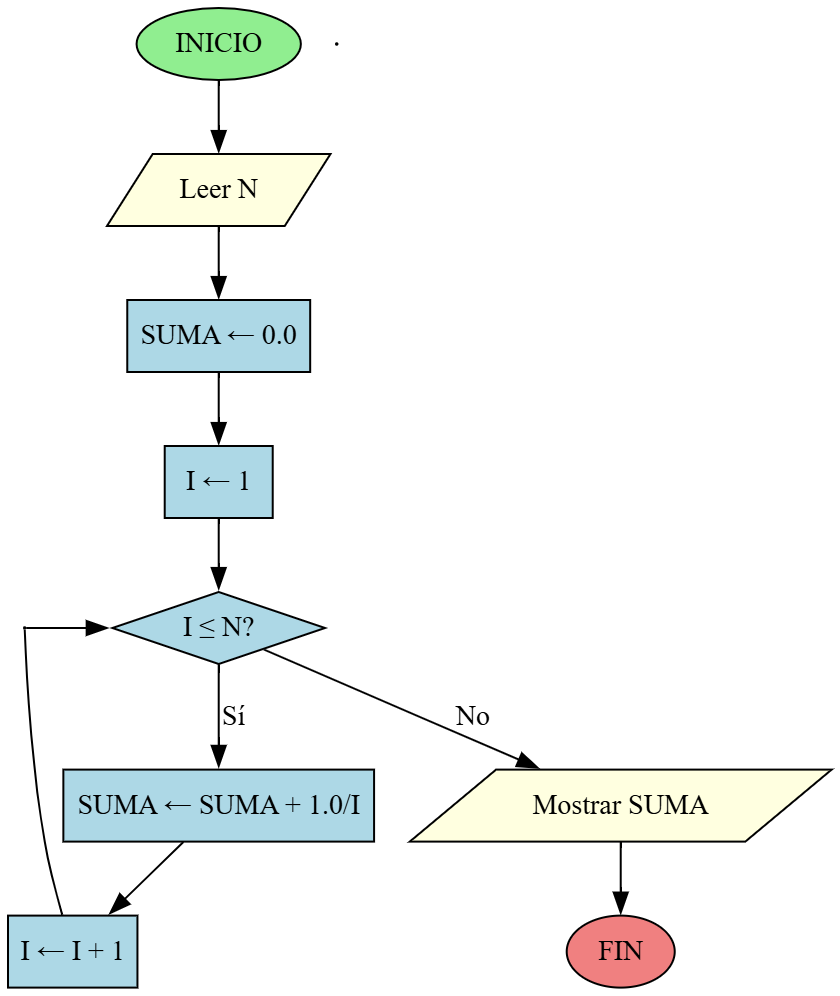
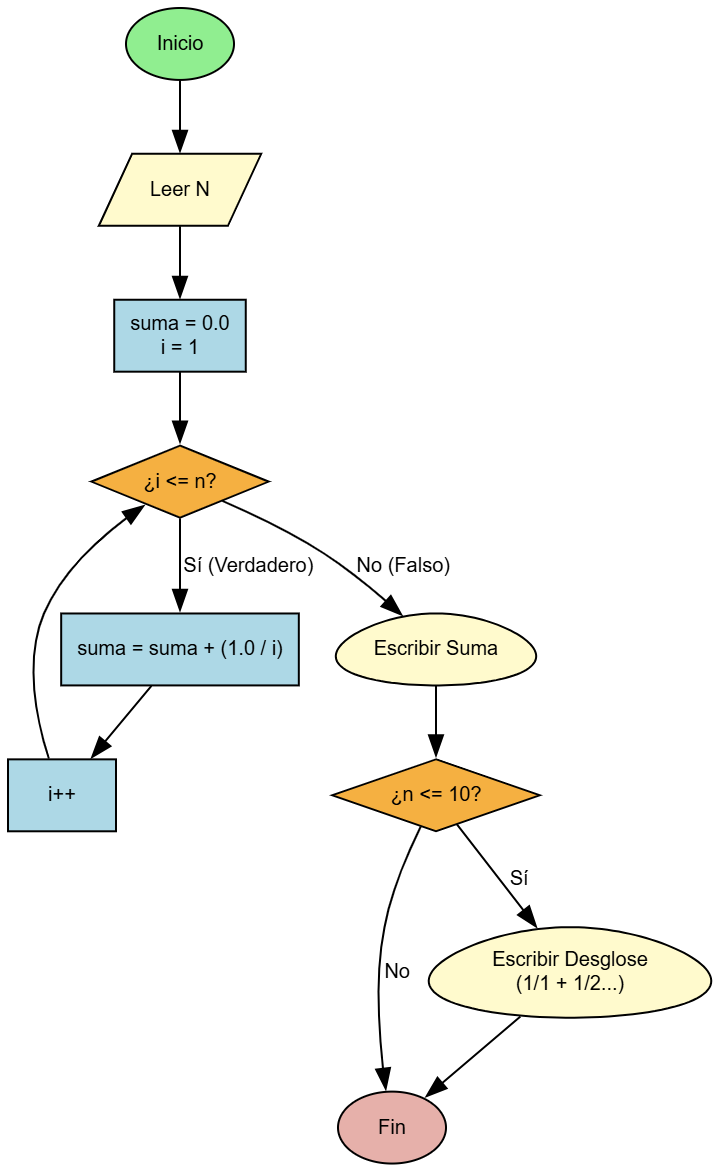
Actualizar PS 3.5 - Serie armónica

Changed region(s): [[0.0, 0.0, 0.7639, 0.996], [0.4278, 0.6225, 1.0, 0.996]]

diff --git a/ejercicios/problema_ps_3_5.html b/ejercicios/problema_ps_3_5.html
@@ -3,62 +3,66 @@
 <head>
     <meta charset="UTF-8">
     <meta name="viewport" content="width=device-width, initial-scale=1.0">
-    <title>Factorial de un Número - Ejercicios Java</title>
-    <link rel="stylesheet" href="../Styles/exercises-new.css">
+    <title>PS 3.5 - Suma de Serie Armónica - Ejercicios Java</title>
+    <link rel="stylesheet" href="../Styles/exercises-new.css?v=20251208">
 </head>
 <body>
 <div class="container">
     <div class="exercise-card">
         <div class="exercise-header">
             <span class="exercise-badge">PS 3.5</span>
-            <h2>Factorial de un Número</h2>
+            <h2>Suma de Serie Armónica</h2>
         </div>
 
         <div class="exercise-description">
-            <p>En este ejercicio trabajarás con productos acumulativos. Aprenderás a implementar algoritmos matemáticos de manera iterativa, manejar números grandes y validar condiciones de entrada.</p>
+            <p>Desarrolla un programa que calcule la suma de la serie armónica: 1 + 1/2 + 1/3 + ... + 1/N. El algoritmo lee N, inicializa SUMA ← 0.0, y mediante un ciclo <code>for (I ← 1; I ≤ N; I ← I + 1)</code> acumula SUMA ← SUMA + 1.0/I.</p>
         </div>
 
         <div class="requirements-list">
             <h3>Requisitos</h3>
             <ul>
-                <li>Leer un número entero positivo N</li>
-                <li>Validar que N >= 0</li>
-                <li>Inicializar <code>factorial = 1</code></li>
-                <li>Usar ciclo desde i=1 hasta i<=N</li>
-                <li>En cada iteración: <code>factorial = factorial * i</code></li>
-                <li>Mostrar el resultado (considerar <code>long</code> para N > 12)</li>
-
+                <li>Leer N (cantidad de términos de la serie)</li>
+                <li>Inicializar SUMA ← 0.0 (usar double para decimales)</li>
+                <li>Ejecutar ciclo I ← 1 hasta I ≤ N: SUMA ← SUMA + 1.0/I, luego I ← I + 1</li>
+                <li>Mostrar SUMA con 4 decimales</li>
             </ul>
         </div>
 
         <div class="example-section">
             <h3>Ejemplo de uso esperado</h3>
             <pre class="code-block">// Entrada:
-N: 5
+========================================
+Suma de Serie Armónica
+Serie: 1 + 1/2 + 1/3 + ... + 1/N
+========================================
+Ingrese el valor de N: 5
 
 // Salida:
-======================================
-5! = 120
-(5 × 4 × 3 × 2 × 1 = 120)
-======================================</pre>
+========================================
+La suma de la serie para N = 5 es: 2.2833
+========================================
+
+Desglose de la serie:
+1/1 + 1/2 + 1/3 + 1/4 + 1/5
+1.0000 + 0.5000 + 0.3333 + 0.2500 + 0.2000 = 2.2833</pre>
         </div>
 
         <div class="notes-section">
             <h3>Notas rápidas</h3>
-            <p>Asegúrate de:</p>
+            <p>Detalles importantes:</p>
             <ul>
-                <li>0! = 1 por definición</li>
-                <li>Usa <code>long</code> ya que factorial crece muy rápido</li>
-                <li>Factoriales > 20 exceden el rango de <code>long</code></li>
-                <li><strong>Tip:</strong> Considera usar <code>BigInteger</code> para valores grandes</li>
-
+                <li>La serie armónica es: 1 + 1/2 + 1/3 + 1/4 + ... + 1/N</li>
+                <li>Usa <code>double</code> para SUMA (no int) para mantener decimales</li>
+                <li>Divide <code>1.0 / i</code> (no <code>1 / i</code>) para evitar división entera</li>
+                <li>La serie armónica crece lentamente (diverge a infinito pero despacio)</li>
+                <li>Para N = 10: SUMA ≈ 2.9290, para N = 100: SUMA ≈ 5.1874</li>
             </ul>
         </div>
 
         <div class="requirements-list">
             <h3>📊 Diagrama de Flujo</h3>
             <div style="text-align: center; margin: 20px 0;">
-                <img src="../images/problema_ps_3_5.png" alt="Diagrama de Flujo - Factorial de un Número" style="max-width: 100%; height: auto; border-radius: var(--border-radius-md);">
+                <img src="../images/problema_ps_3_5.png?v=20251208" alt="Diagrama de Flujo - Suma de Serie Armónica" style="max-width: 100%; height: auto; border-radius: var(--border-radius-md);">
             </div>
             <p style="text-align: center; color: var(--color-text-light); font-size: 0.9rem;">
                 <em>Diagrama de flujo del algoritmo</em>
